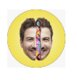
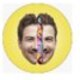
Hero refait + clarté du message + corrections
- Hero: message ultra-clair "Bar mobile & cocktails pour événements"
- Badge: "Bar mobile professionnel" avec icône camion
- Description: service explicite (bar installé, barmans pros, types événements)
- Meta OG: description plus claire et pro
- Avatar Ludovik: zoom 120%
- Section clients: titre "Nos clients" supprimé

diff --git a/index.html b/index.html
@@ -9,7 +9,7 @@
 
     <!-- Open Graph -->
     <meta property="og:title" content="Bar'OOF - Bar Mobile & Cocktails Événementiels">
-    <meta property="og:description" content="Un bar, des gens, un moment. Bar mobile pour vos événements en Île-de-France.">
+    <meta property="og:description" content="Bar mobile professionnel pour événements en Île-de-France. Cocktails & mocktails faits minute, barmans pros. 500+ événements réalisés.">
     <meta property="og:type" content="website">
     <meta property="og:url" content="https://baroof.fr">
 
@@ -130,20 +130,22 @@
                 <div class="hero-content">
                     <div class="hero-badge">
                         <svg width="16" height="16" viewBox="0 0 24 24" fill="none" stroke="currentColor" stroke-width="2" stroke-linecap="round" stroke-linejoin="round">
-                            <path d="M3 9l9-7 9 7v11a2 2 0 0 1-2 2H5a2 2 0 0 1-2-2z"/>
-                            <polyline points="9 22 9 12 15 12 15 22"/>
+                            <rect x="1" y="3" width="15" height="13"/>
+                            <polygon points="16 8 20 8 23 11 23 16 16 16 16 8"/>
+                            <circle cx="5.5" cy="18.5" r="2.5"/>
+                            <circle cx="18.5" cy="18.5" r="2.5"/>
                         </svg>
-                        On ramène le bar chez vous
+                        Bar mobile professionnel
                     </div>
 
                     <h1 class="hero-title">
-                        Un bar, des gens,<br>
-                        <span class="underline-highlight">un moment</span>
+                        Bar mobile & cocktails<br>
+                        <span class="underline-highlight">pour vos événements</span>
                     </h1>
 
                     <p class="hero-description">
-                        Le bar, c'est là où les gens se retrouvent. Où les conversations démarrent. Où les équipes se soudent. Où les souvenirs se créent.<br><br>
-                        On apporte cette magie là où vous êtes : bureau, mariage, anniversaire, jardin.
+                        On installe un vrai bar chez vous avec barmans professionnels, cocktails & mocktails faits minute, et tout le matériel nécessaire.<br><br>
+                        <strong>Mariage • Team building • Anniversaire • Soirée d'entreprise</strong> — Partout en Île-de-France.
                     </p>
 
                     <div class="hero-cta">
@@ -591,9 +593,6 @@
     <!-- Section Clients -->
     <section class="clients">
         <div class="container">
-            <div class="section-header center">
-                <h2 class="section-title">Nos clients</h2>
-            </div>
             <div class="clients-grid">
                 <div class="client-logo">
                     <img src="client-pernod.png" alt="Pernod Ricard">
